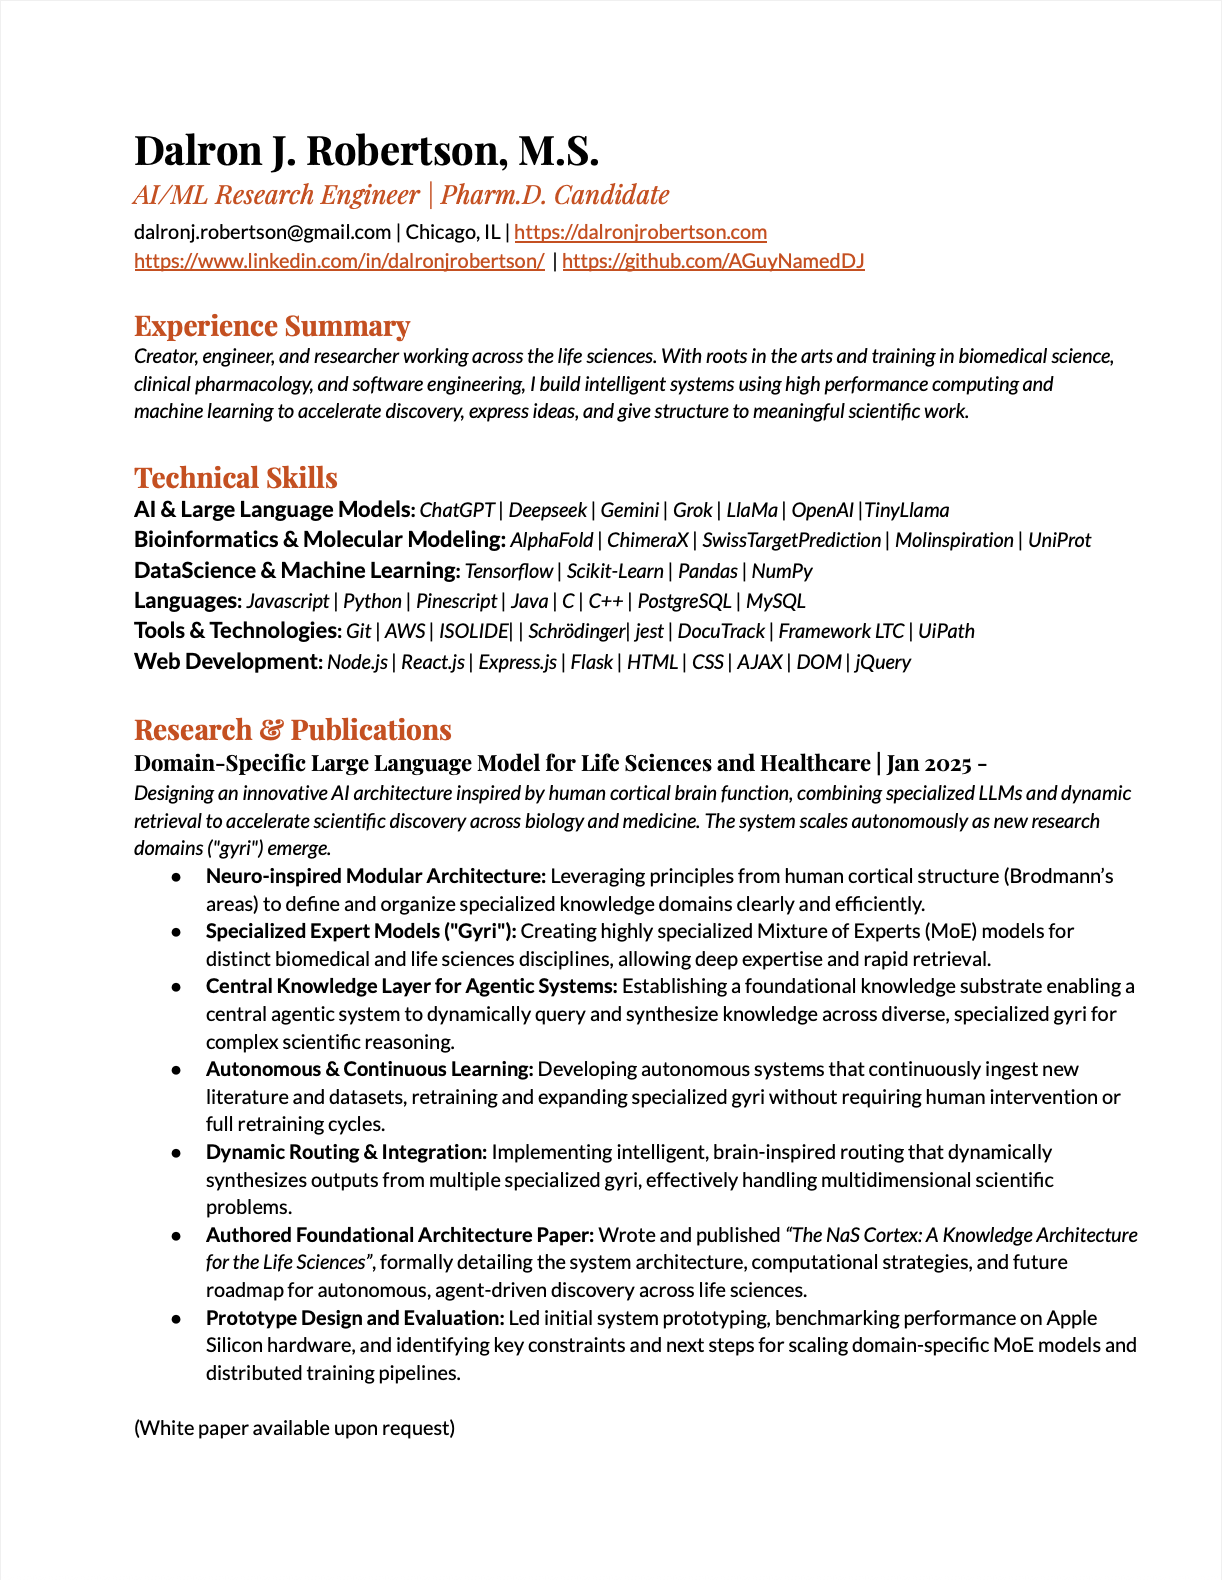
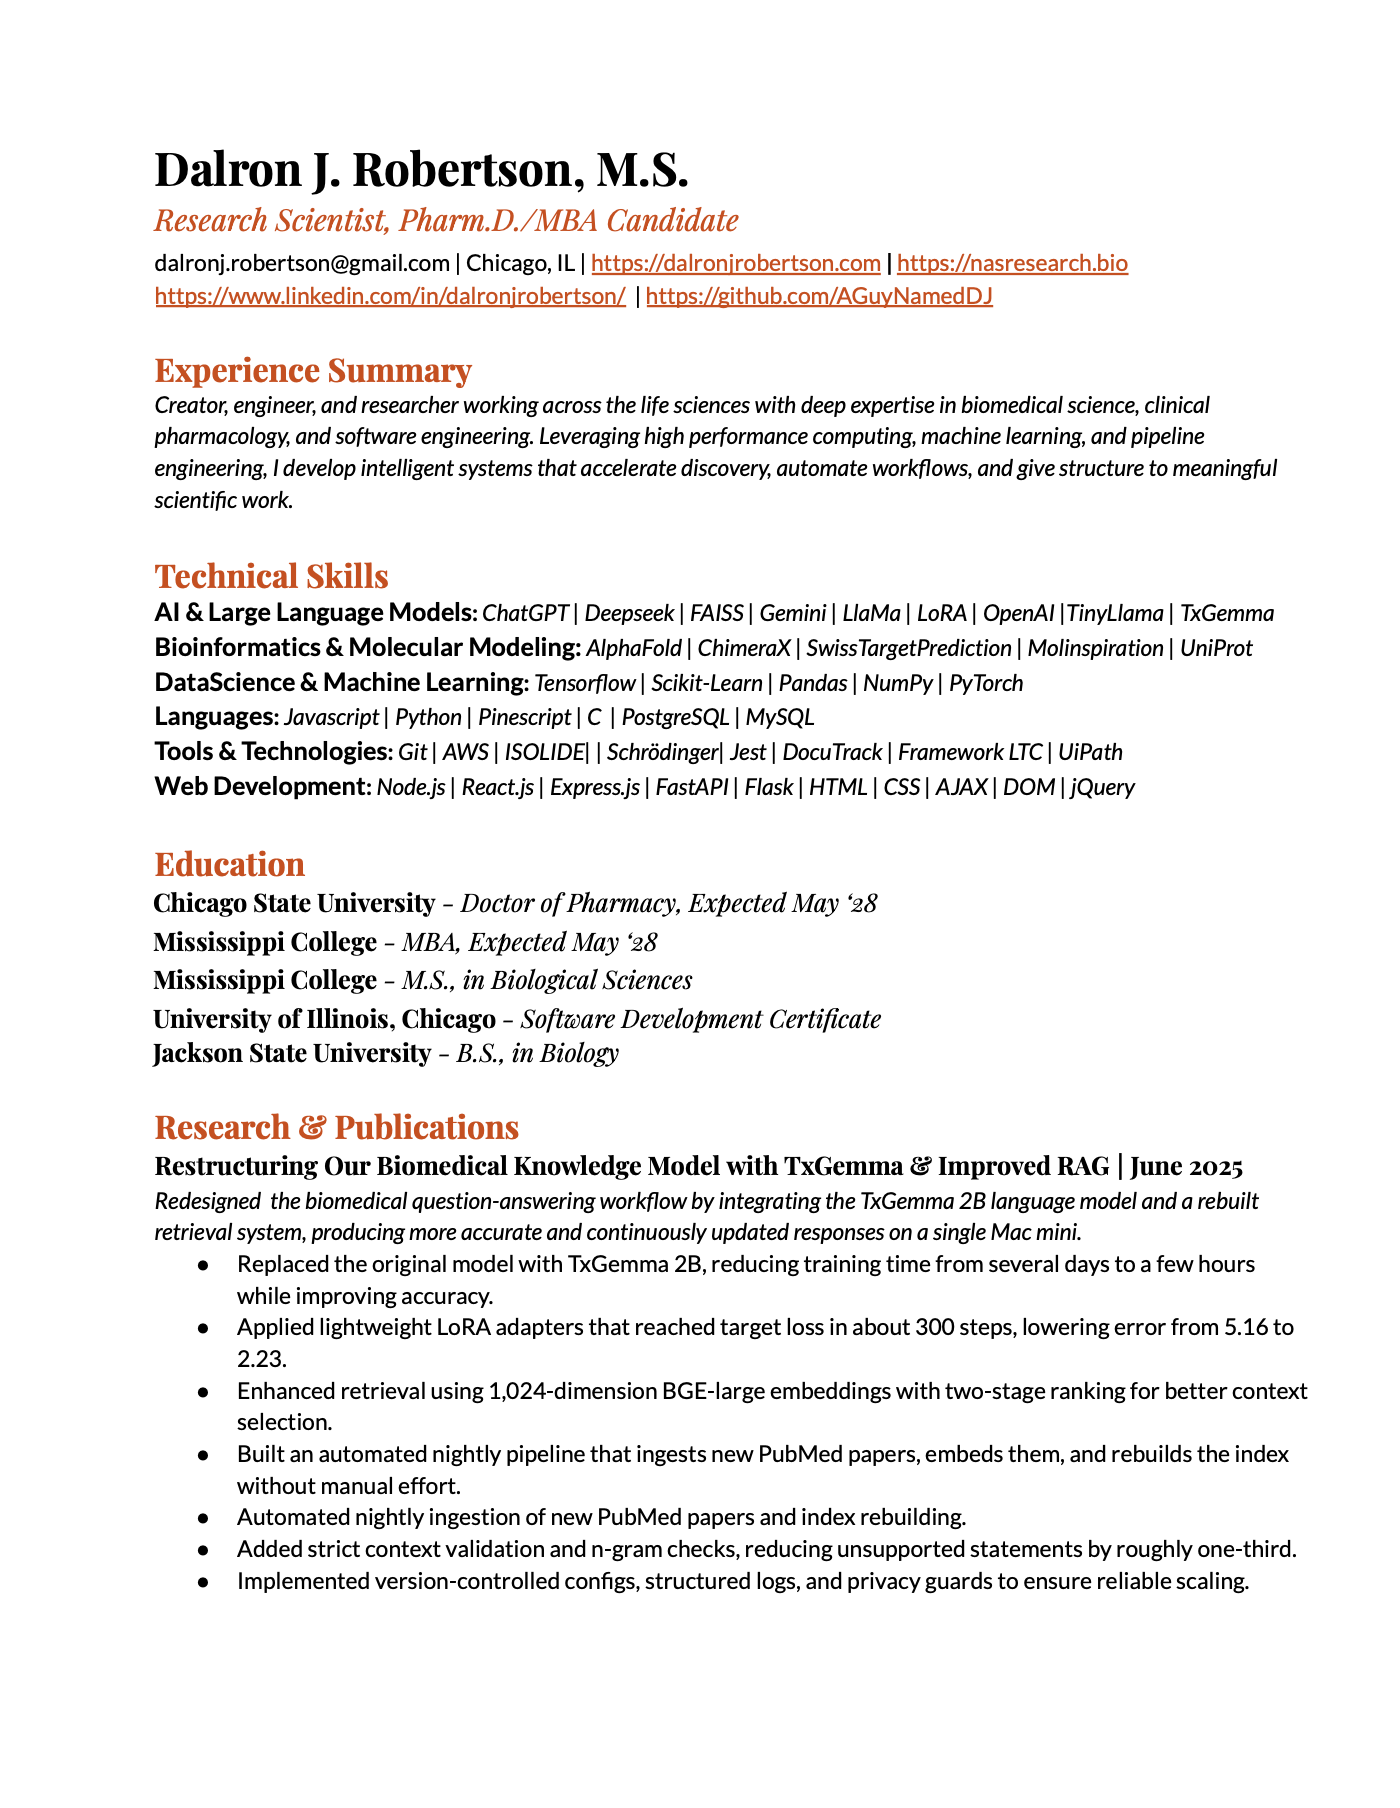
Update personal site content, milestones, and writing section layout
- Updated “Who I Am” section with revised biography reflecting current work in clinical pharmacy, research, and computational biology
- Added new milestones for Astellas Bridge to Industry Program (Fall 2025) and Pharmacy Intern role at UChicago Medicine (March 2026)
- Refined milestone language for consistency and removed unnecessary emphasis on institutional prestige
- Increased spacing between writing description text and book carousel for improved visual balance
- Adjusted carousel vertical offset in ScrollTransition component (translate-y-20 → translate-y-32)
- Minor content and formatting updates across site sections

Changed region(s): [[0.0933, 0.062, 0.9329, 0.9304]]

diff --git a/src/app/about/page.jsx b/src/app/about/page.jsx
@@ -45,13 +45,16 @@ export default function AboutPage() {
         <div>
           <h2 className="text-2xl font-semibold mb-4">Who I Am</h2>
           <p className="leading-relaxed text-neutral-800">
-            I am Dalron J. Robertson, a researcher, engineer and creative problem solver in the life sciences. My early work in the arts taught me how structured discipline and creative insight spark innovation. Through composing music and writing books I learned to build systems that combine precision with expressive purpose.
+            I am Dalron J. Robertson, a scientist and builder working in the life sciences. My work is grounded in careful thinking, disciplined craft, and a deep curiosity about how biological systems function. Long before formal scientific training, the arts shaped how I approach problems. Writing and composing taught me that structure and creativity belong together, and that meaningful work is built patiently, piece by piece.
           </p>
           <p className="leading-relaxed text-neutral-800 mt-2">
-            My training spans biomedical science, clinical pharmacology and software engineering. As lead graduate researcher I guided a team of sixteen in evaluating phytochemicals for therapeutic use. We built structural models, ran molecular docking simulations and conducted bioinformatics analyses to identify the most promising candidates. That work earned second place at my university’s annual research symposium.
+            My academic foundation in biology and biomedical science led naturally into research. During my graduate work I led a team of sixteen students studying phytochemicals and their therapeutic potential. We used bioinformatics, structural modeling, and molecular docking to explore how naturally occurring compounds interact with biological targets. That work strengthened my belief that computation and biological insight together can reveal patterns that would otherwise remain hidden.
           </p>
           <p className="leading-relaxed text-neutral-800 mt-2">
-            Currently, as I work toward completing my Pharm.D., I am developing a specialized ecosystem of machine-learning models, domain-specific language models, and autonomous agents tailored to the life sciences. This integrated framework continuously ingests biological data and evolves dynamically to support biomedical research. My clinical background, engineering expertise, and dedication to meaningful innovation equip me to create intelligent systems that accelerate scientific discovery.
+            Clinical medicine is another part of that pursuit. Work within UChicago Medicine and collaboration with scientists and leaders at Astellas reflect my commitment to understanding how discoveries move from biological insight to real therapies. At the same time I continue building computational tools designed to organize and interpret complex biomedical data, allowing scientific knowledge to accumulate and evolve in more intelligent ways.
+          </p>
+          <p className="leading-relaxed text-neutral-800 mt-2">
+            Across research, medicine, and technology, the purpose remains steady. I study life carefully, build systems that extend our ability to understand it, and apply that understanding toward the improvement of human health.
           </p>
           <div className="clear-left" />
         </div>

diff --git a/src/components/sections/TimelineRIbbonClient.jsx b/src/components/sections/TimelineRIbbonClient.jsx
@@ -76,6 +76,16 @@ const entries = [
     desc: "Returned to pharmacy school following my master's graduation, relocating to Chicago to resume clinical rotations and complete doctoral coursework."
   },
   {
+    year: 2025,
+    title: "Astellas Bridge to Industry Program (Oct 2025)",
+    desc: "Selected for the Astellas Bridge to Industry Mentor Intensive Program, engaging with senior pharmaceutical leadership and gaining insight into drug development, regulatory strategy, and industry research."
+  },
+  {
+    year: 2026,
+    title: "Pharmacy Intern, UChicago Medicine (March 2026)",
+    desc: "Joined UChicago Medicine as a Pharmacy Intern on the Meds2Beds transitions-of-care team, supporting hospital discharge medication management and patient counseling."
+  },
+  {
     year: 2028,
     title: "Doctor of Pharmacy (Pharm.D.) (Expected May 2028)",
     desc: "Anticipated completion of pharmacy doctoral training, positioning me to integrate clinical expertise and pharmaceutical science in patient care and research."

diff --git a/src/components/sections/ScrollTransition.jsx b/src/components/sections/ScrollTransition.jsx
@@ -1,4 +1,4 @@
- "use client";
+"use client";
 import { useRef, useState, useEffect, useLayoutEffect, useCallback } from "react";
 import {
   motion,
@@ -199,7 +199,7 @@ export default function ScrollTransition({
           {/* phase 4 — 40 %‑width carousel */}
           {images.length > 0 && (
             <motion.div
-              className="absolute inset-0 flex items-center justify-center pointer-events-auto translate-y-20"
+              className="absolute inset-0 flex items-center justify-center pointer-events-auto translate-y-32"
               style={{
                 opacity: useTransform(scrollYProgress, [0.96, 0.975], [0, 1]),
               }}
